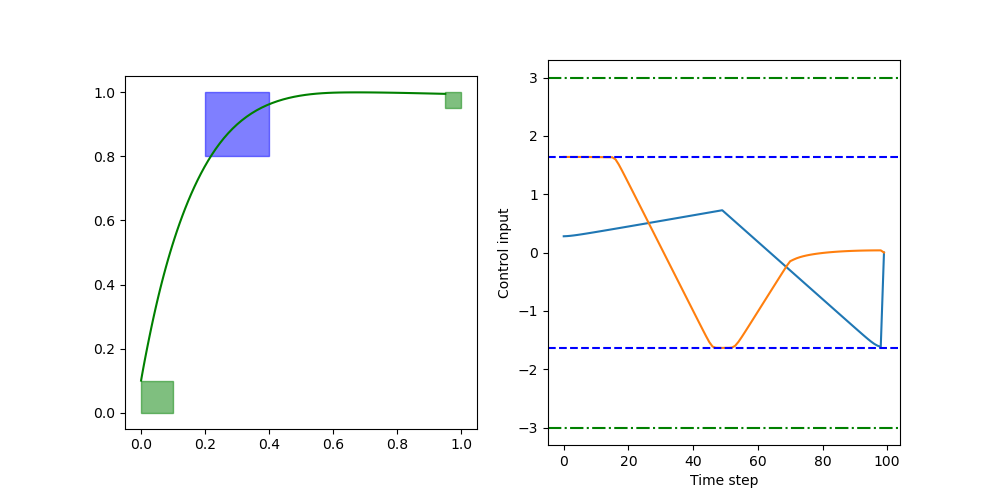
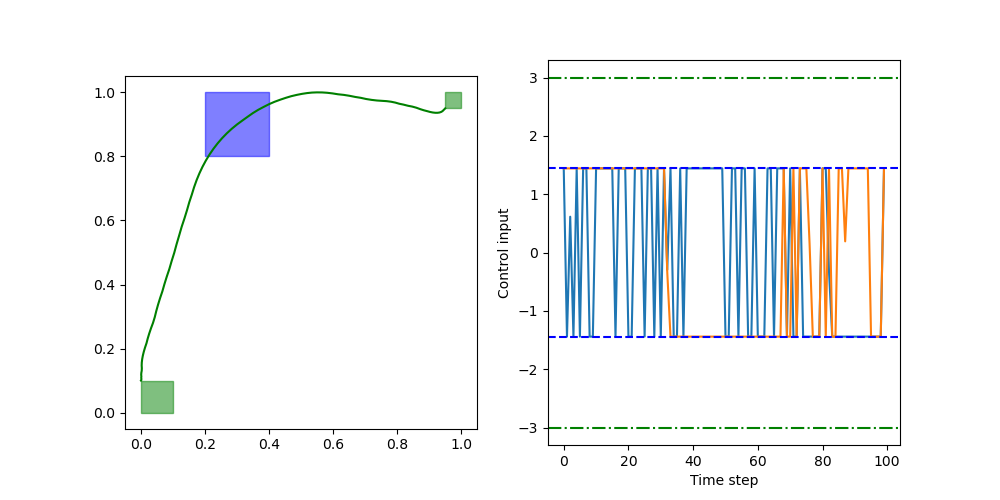
added elaborate print statements to results

diff --git a/Planning/main.py b/Planning/main.py
@@ -73,22 +73,19 @@ if True:
     #         opt.addConstr(gp.quicksum(z_vars[i,:]) >= 1)
 
     # objective
-    # #TODO: this breaks the solution of prob 2 and is incredibly slow
-    # #TODO: asses whether this affects the value of alpha_vars
-    # quad_cost = opt.addVar(lb=0, ub=np.inf, name="quad_cost")
-    # quad_vars = opt.addMVar((N,), lb=0, ub=np.inf, name="quad_vars")
-    quad_cost = 0
-    for i in range(N):
-        quad_cost += u_vars[i,0]*u_vars[i,0] + u_vars[i,1]*u_vars[i,1]
+    # quad_cost = 0
+    # for i in range(N):
+    #     quad_cost += u_vars[i,0]*u_vars[i,0] + u_vars[i,1]*u_vars[i,1]
     
     cost_var = opt.addVar(lb=-np.inf, ub=np.inf, name="cost")
-    opt.addConstr(cost_var == quad_cost + 100*alpha_vars - 10000*delta)
+    opt.addConstr(cost_var == 100*alpha_vars - 10000*delta) # quad_cost
     opt.setObjective(cost_var, gp.GRB.MINIMIZE)
     opt.setParam('OutputFlag', 0)  # Suppress Gurobi output
     opt.optimize()
     if opt.status == gp.GRB.OPTIMAL:
         print(f"Optimal solution found")
-        print(f"Alpha: {alpha_vars.X}")
+        print(f"\nAlpha from solving Prob 1: {alpha_vars.X}")
+        print(f"This is how much control is necessary to satisfy the specification")
     else:
         print(f"No optimal solution found")
         print(f"Status: {scs[opt.status]}")
@@ -154,33 +151,39 @@ def u_fbl_cs(x, v):
     return u_fbl
 
 x = copy.deepcopy(x_ff[0, :])
-x_hist = np.zeros((N, sp_robot.n_x))
-u_hist = np.zeros((N, sp_robot.n_u))
+x_sp = np.zeros((N, sp_robot.n_x))
+u_sp = np.zeros((N, sp_robot.n_u))
 for i in range(N):
     u = u_fbl(x, u_ff[i, :])[0:2]
     x = uw_robot.step(np.concatenate((x[0:2],np.zeros((4,)),x[2:4],np.zeros((4,)))), 
                       np.concatenate((u,np.zeros((4,1)))), dt)[[0,1,6,7]]
     x = np.array(x).squeeze()
     u = np.array(u).squeeze()
-    x_hist[i, :] = x
-    u_hist[i, :] = u
+    x_sp[i, :] = x
+    u_sp[i, :] = u
 
 fig, axs = plt.subplots(1,2, figsize=(10, 5))
-axs[0].plot(x_hist[:, 0], x_hist[:, 1], 'g-')
+axs[0].plot(x_sp[:, 0], x_sp[:, 1], 'g-')
 X0.plot(axs[0], color='green', alpha=0.5)
 Xf.plot(axs[0], color='green', alpha=0.5)
 XA.plot(axs[0], color='blue', alpha=0.5)
 # [obs.plot(axs[0], color='red', alpha=0.5) for obs in Obs]
 axs[0].set_aspect('equal', adjustable='box')
-axs[1].plot(u_hist[:,0])
-axs[1].plot(u_hist[:,1])
+axs[1].plot(u_sp[:,0])
+axs[1].plot(u_sp[:,1])
 axs[1].set_xlabel('Time step')
 axs[1].set_ylabel('Control input')
 plt.savefig("figures/sp_trajectory_uw.png")
 
 
-u_max = np.max(np.abs(u_hist), axis=0)
-print(f"Alpha for uw: {np.max(u_max/uw_robot.U.upper_bounds[0:2])}")
+u_max = np.max(np.abs(u_sp), axis=0)
+print(f"\nAlpha if u_sp applied to BlueROV directly: {np.max(u_max/uw_robot.U.upper_bounds[0:2])}")
+print(f"This is lower because BlueROV is faster than free flyer")
+
+u_uw = np.array([u_fbl(x_sp[i,:],u_sp[i,:])[0:2].squeeze() for i in range(N)])
+u_max = np.max(np.abs(u_uw), axis=0)
+print(f"\nAlpha if u_fbl(x_sp,u_sp) applied to BlueROV directly: {np.max(u_max/uw_robot.U.upper_bounds[0:2])}")
+print(f"U should become {np.max(u_max)/alpha} for same alpha (was {uw_robot.U.upper_bounds[0]}) which is {(np.max(u_max)/alpha)/uw_robot.U.upper_bounds[0]*100}%")
 
 # So now we have to find \phi (for now deltaT) such that
 # alpha for uw is equal to alpha for the free flyer
@@ -248,8 +251,8 @@ elif True:
     u_vars = ocp.variable(2, N)
     dt_vars = ocp.variable(1)
 
-    ocp.set_initial(x_vars, x_hist.T)
-    ocp.set_initial(u_vars, u_hist.T)
+    ocp.set_initial(x_vars, x_sp.T)
+    ocp.set_initial(u_vars, u_sp.T)
     ocp.set_initial(dt_vars, 0.01)
 
     ocp.subject_to(dt_vars >= 0)
@@ -263,11 +266,11 @@ elif True:
         ocp.subject_to(x_vars[:,i+1] == sp_robot.step(x_vars[:,i], u_vars[:,i], dt_vars))
     
     # for i in range(N):
-    #     ocp.subject_to(x_vars[0:2,i] == x_hist[i,0:2])
+    #     ocp.subject_to(x_vars[0:2,i] == x_sp[i,0:2])
     #TODO: seems to be a singularity around i=50
     # points = [10, 20, 30, 40, 50, 60, 70, 80, 90]
     # for i in points:
-    #     ocp.subject_to(x_vars[0:2,i] == x_hist[i,0:2])
+    #     ocp.subject_to(x_vars[0:2,i] == x_sp[i,0:2])
 
     ocp.subject_to(x_vars[:,0] >= X0.lower_bounds)
     ocp.subject_to(x_vars[:,0] <= X0.upper_bounds)
@@ -298,7 +301,7 @@ elif True:
         x_uw = sol.value(x_vars).T
         u_uw = sol.value(u_vars).T
         dt_uw = sol.value(dt_vars)
-        print(f"Solution found")
+        # print(f"Solution found")
     except Exception as e:
         print(f"Solution not found: {e}")
         print(e)
@@ -315,8 +318,10 @@ else:
 t_uw = np.linspace(0, dt_uw*N, N)
 u_uw_fbl = np.array([u_fbl(x_uw[i,:],u_uw[i,:])[0:2].squeeze() for i in range(N)])
 u_max = np.max(np.abs(u_uw_fbl), axis=0)
-print(f"Replanned alpha for uw: {np.max([u_max/(uw_robot.U.upper_bounds[0:2]) for i in range(N)])}")
-print(f"Replanned dt for uw: {dt_uw}")
+print(f"\nAlpha for replanning uw to have same alpha: {np.max([u_max/(uw_robot.U.upper_bounds[0:2]) for i in range(N)])}")
+print(f"This should be the same as the solution to Prob 1")
+print(f"Replanned dt_uw: {dt_uw} (was {dt}) which is {(dt_uw)/dt*100}%")
+
 
 # plot the trajectory
 fig, axs = plt.subplots(2,2, figsize=(10, 10))
